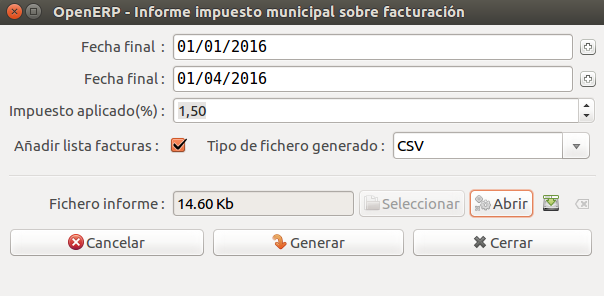
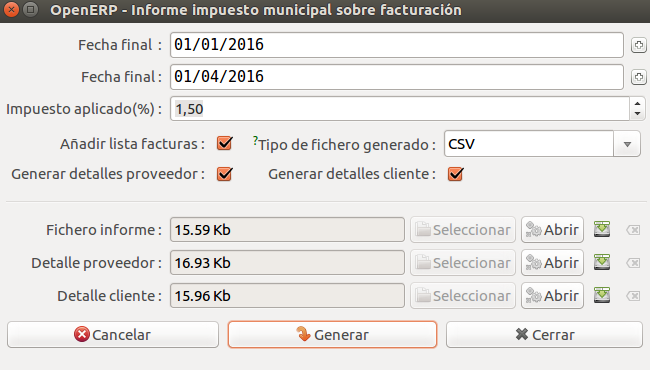
Updated the documentation for municipal taxes

Changed region(s): [[0.0, 0.0, 1.0, 0.5473], [0.0, 0.5777, 1.0, 0.9426]]

diff --git a/docs/comer/adm-pub/municipal_taxes.md b/docs/comer/adm-pub/municipal_taxes.md
@@ -34,21 +34,30 @@ que hàgem seleccionat, ordenats alfabèticament. Altrament, si seleccionem que 
 un Excel els llistats de factures (en cas de demanar-los) es guardaran per separat
 en dues altres pestanyes, una per factures de proveïdors i l'altre per factures a
 clients. Aquestes dades també estaran ordenades alfabèticament pel nom del municipi.
+* **Generar detalls proveidor**. Si marquem aquest camp crearem el fitxer de detalls
+proveidor, que conté tota la informació de les factures seleccionades.
+* **Generar detalls client**. Si marquem aquest camp crearem el fitxer de detalls
+client, que conté tota la inforamció de les factures seleccionades.
 
 Un cop entrades totes les dades, podem prémer el botó de generar. Això farà les
-consultes necessàries per generar el fitxer i el generarà, permetent obrir-lo
-directament o guardar-lo a l'ordinador.
+consultes necessàries per generar els fitxers demanats i els generarà, permetent
+obrir-los directament o guardar-los a l'ordinador.
 
 ![Figura 3](../_static/municipal_taxes/wizard_fin.png)
 
 ## Dades utilitzades
 
-Per tal de generar el fitxer es tenen en compte totes les factures amb una data
-de factura entre les dates seleccionades. També es tenen en compte cada una de
-les línies de factura i els seus account_invoice associats. A més, s'utilitza
+Per tal de generar el fitxer de l'informe es tenen en compte totes les factures
+amb una data de factura entre les dates seleccionades. També es tenen en compte
+cada una de les línies de factura i els seus account_invoice associats. A més, s'utilitza
 la pòlissa associada a les factures per trobar la CUPS, que finalment ens permet
 trobar a quin municipi pertany cada factura.
 
 D'altra banda, per tal de generar la part del llistat de factures (si s'ha
 seleccionat) s'utilitzen les taules de res_partner per trobar la informació de
 la distribuïdora i del client i les tarifes per mirar quina tarifa té cada client.
+
+Per tal de generar els fitxers de detalls (tant el de proveidor com el de clients)
+s'utilitza, a més, les taules d'account_invoice_line_tax i account_tax per tal de
+trobar els impostos a pagar. També s'utilitza el payment_type per trobar el tipus
+de pagament que ha estat utilitzat.
